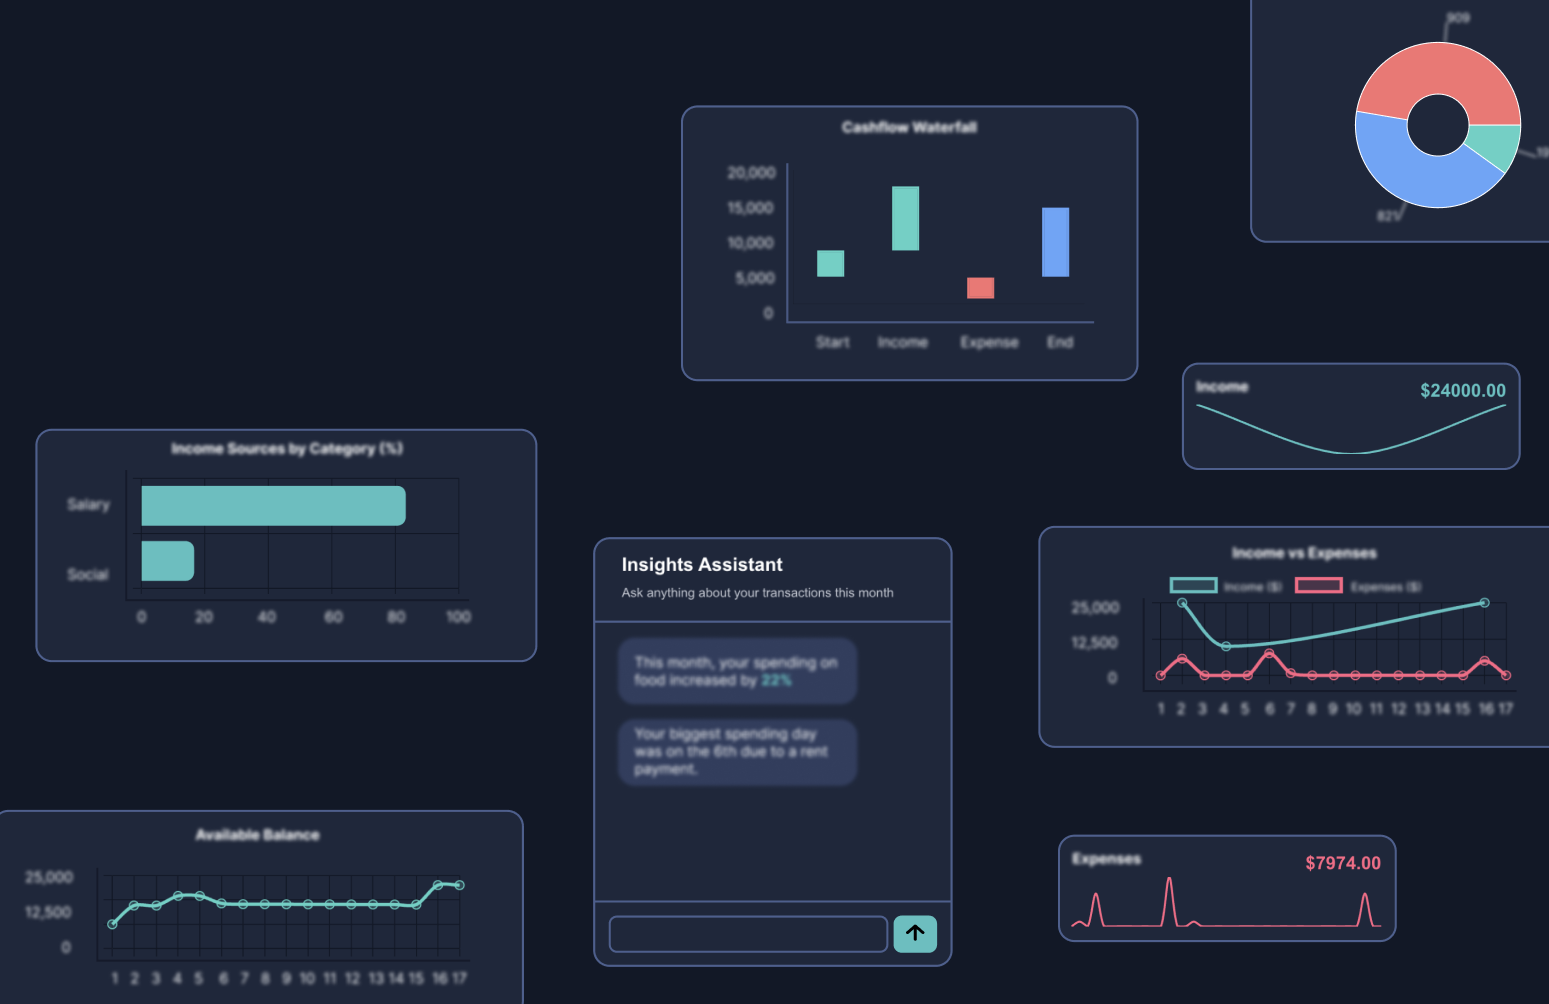
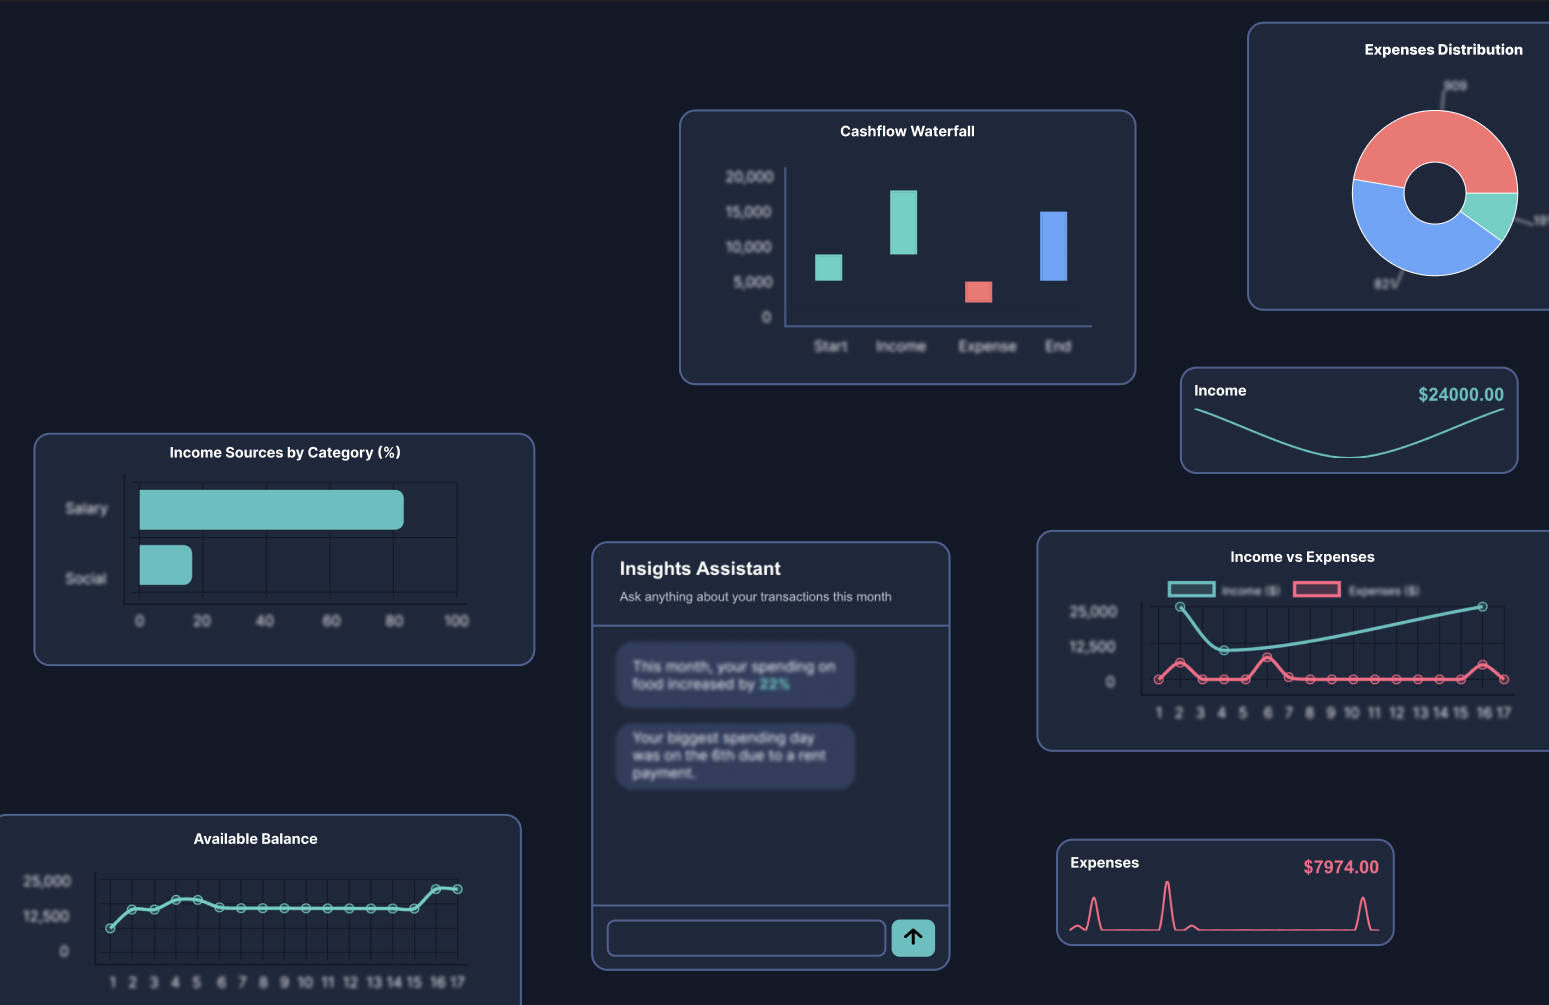
Adjust dashboard layout of charts and chatbot

diff --git a/app/components/charts/charts.tsx b/app/components/charts/charts.tsx
@@ -54,36 +54,30 @@ const Charts = ({ transactions = [], selectedMonth = 0, selectedYear = 0 }) => {
     >
       {transactions.length > 0 ? (
         <div className={styles.charts}>
-          <div className={styles.cardChart}>
-            <AvailableBalanceCard
-              selectedMonth={selectedMonth}
-              selectedYear={selectedYear}
-            />
-          </div>
-          <div className={styles.cardChart}>
-            <div className={styles.miniCardsContainer}>
-              {expenses.length > 1 && (
-                <MiniTotalDisplayCard
-                  title="Expenses"
-                  transactions={expenses}
-                  lineColor="rgb(255, 99, 132)"
-                />
-              )}
-              {income.length > 1 && (
-                <MiniTotalDisplayCard
-                  title="Income"
-                  transactions={income}
-                  lineColor="rgb(75, 192, 192)"
-                />
-              )}
-            </div>
-          </div>
-          {expenses.length > 0 && (
-            <div className={styles.chart}>
-              <DonutChart expenses={expenses} />
-            </div>
-          )}
           <div className={styles.chartGroup}>
+            {expenses.length > 0 && (
+              <div className={styles.chart}>
+                <DonutChart expenses={expenses} />
+              </div>
+            )}
+            <div className={styles.cardChart}>
+              <div className={styles.miniCardsContainer}>
+                {expenses.length > 1 && (
+                  <MiniTotalDisplayCard
+                    title="Expenses"
+                    transactions={expenses}
+                    lineColor="rgb(255, 99, 132)"
+                  />
+                )}
+                {income.length > 1 && (
+                  <MiniTotalDisplayCard
+                    title="Income"
+                    transactions={income}
+                    lineColor="rgb(75, 192, 192)"
+                  />
+                )}
+              </div>
+            </div>
             <div className={styles.chart}>
               <CashflowWaterfallChart
                 income={income}
@@ -111,8 +105,16 @@ const Charts = ({ transactions = [], selectedMonth = 0, selectedYear = 0 }) => {
               <BarGraphY income={income}></BarGraphY>
             </div>
           </div>
-          <div className={styles.chatbotContainer}>
-            <InsightsChatbot userSummary={userSummary}></InsightsChatbot>
+          <div className={styles.side}>
+            <div className={styles.cardChart}>
+              <AvailableBalanceCard
+                selectedMonth={selectedMonth}
+                selectedYear={selectedYear}
+              />
+            </div>
+            <div className={styles.chatbotContainer}>
+              <InsightsChatbot userSummary={userSummary}></InsightsChatbot>
+            </div>
           </div>
         </div>
       ) : (

diff --git a/app/components/charts/charts.module.css b/app/components/charts/charts.module.css
@@ -98,11 +98,21 @@
   min-width: 20em;
 }
 
+.side {
+    display:flex;
+    flex-direction: column;
+    justify-content: start;
+    align-items: start;
+    height: 100%;
+    max-height: 50em;
+}
+
 .chatbotContainer {
   display: flex;
   flex-shrink: 1;
   width: 22em;
-  height: 27em;
+  height: 100%;
+  max-height: 34em;
   margin: 0.5em;
 }
 
